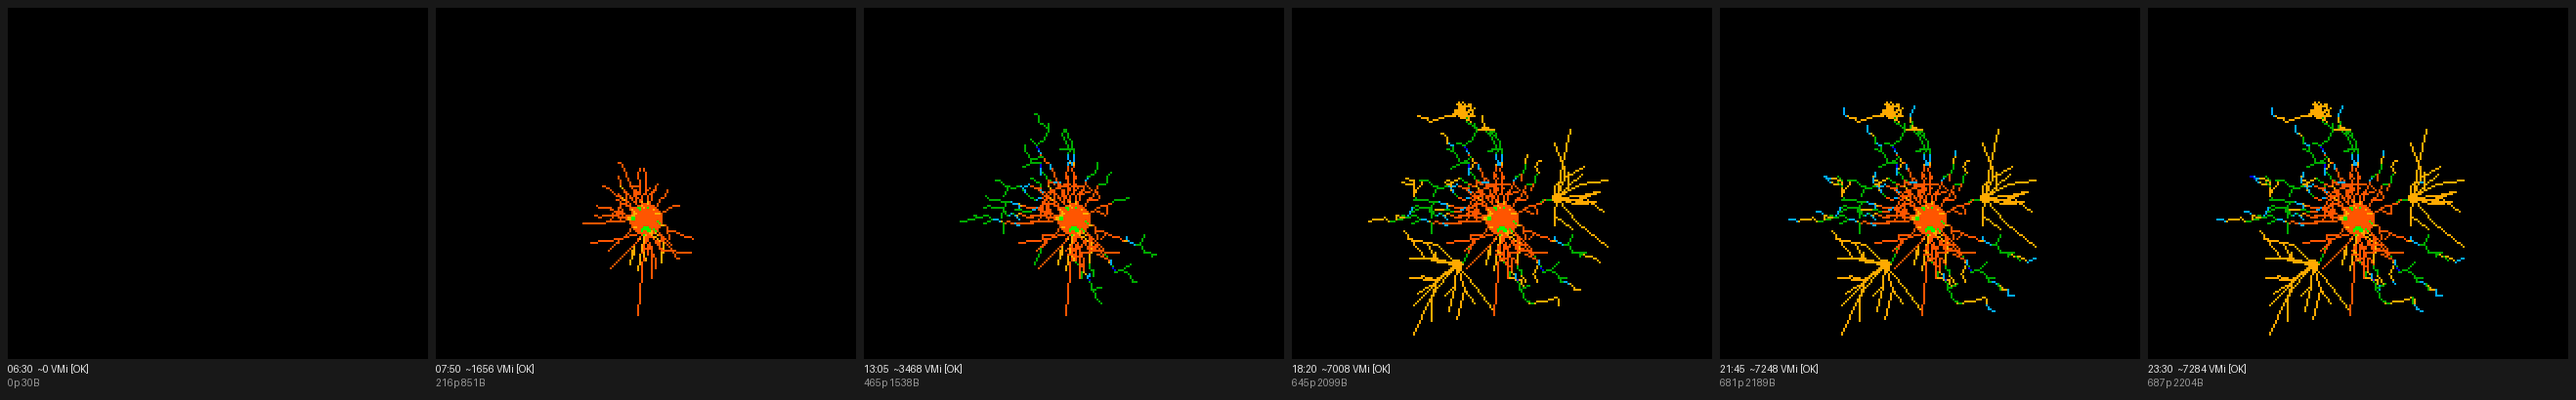
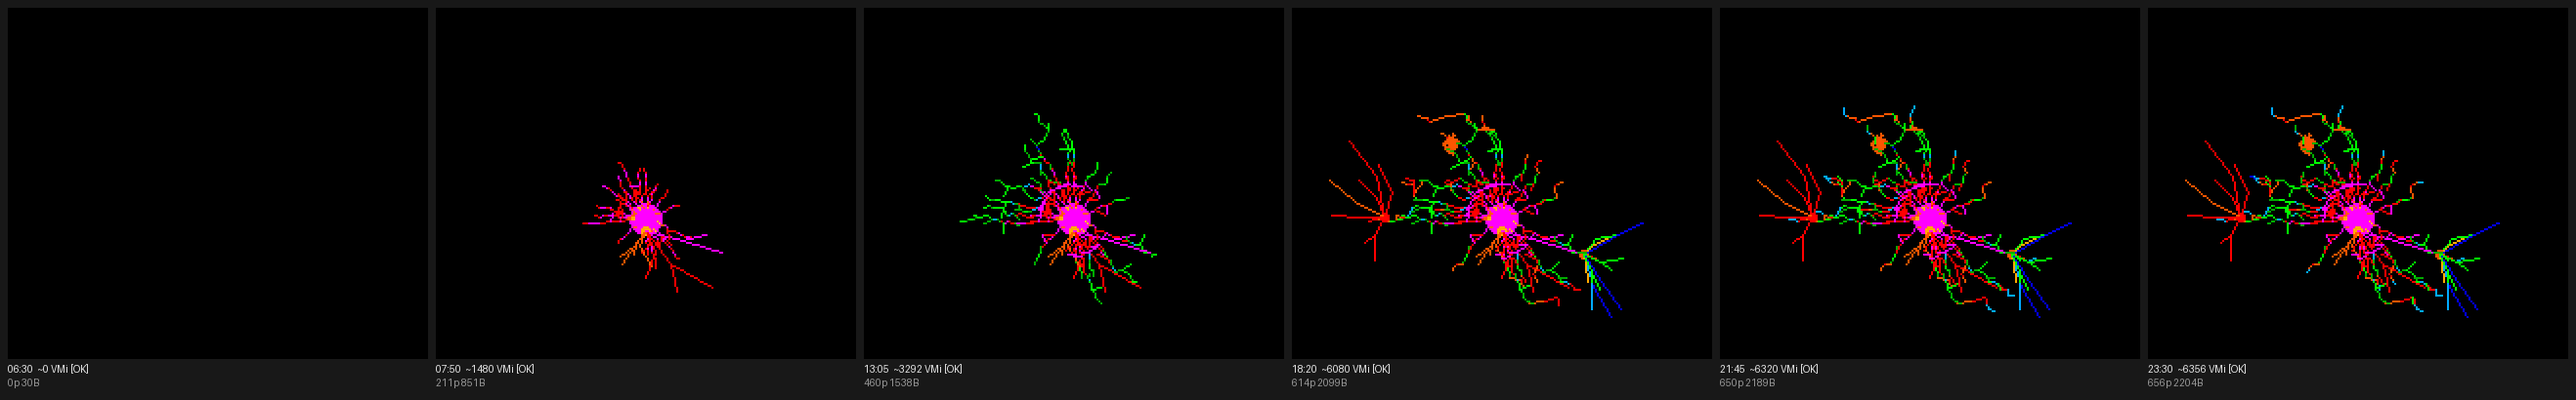
biobloom: finer HR colour ramp + cooldown momentum tail
Two iterations on the biobloom face.

1. Finer HR display. Give biobloom its own 9-step HR ramp (dk-blue, blue,
   dk-green, green, yellow, orange, red, pink, purple over bounds
   [60,80,95,105,120,138,152,165]) instead of the shared 7-step
   GenArt.ZONE_COLORS, so strataflock/flock are untouched. The old ramp
   lumped HR 105-125 into one green; that span now spreads across
   green/yellow/orange, cutting the green dominance. Pink/purple are held
   back for genuine max efforts (152+/165+). The elevated-episode threshold
   is unchanged (HR >= 105), so bloom/colony geometry and the parity tests
   are unaffected.

2. Momentum-tail colouring. The banked-movement creep that continues after
   HR drops now cools back DOWN the HR ramp from the last zone toward
   resting, in proportion to how much reservoir is left -- the recovery told
   as a colour gradient -- replacing the old behaviour of flat-reusing the
   last zone colour (which pooled green). The sandbox algo keeps the other
   explored modes (inherit/ember/violet/neutral) selectable for future
   iteration; the shipped default is cooldown.

Packed two new per-bloom fields (reservoir-at-HR-drop, last zone) into
save/load. On-device parity tests still pass (state identical, prims 657);
release sim RAM 51/59K, render 0-1ms.

diff --git a/sketches/algos/biobloom.py b/sketches/algos/biobloom.py
@@ -33,8 +33,35 @@ record the effort as zone-coloured bands as they grow outward.
 Activity-driven: the day's shape is the day's exertion. 14-colour palette, one
 repaint per minute, no within-minute animation. Daily reset (fresh dish).
 """
-from device import (idiv, imod, isin, hash16, zoneIndex, ZONE_COLORS,
-                    COLOR_BLACK, COLOR_DK_GRAY, COLOR_LT_GRAY)
+from device import (idiv, imod, isin, hash16,
+                    COLOR_BLACK, COLOR_DK_GRAY, COLOR_LT_GRAY,
+                    COLOR_DK_BLUE, COLOR_BLUE, COLOR_DK_GREEN, COLOR_GREEN,
+                    COLOR_YELLOW, COLOR_ORANGE, COLOR_RED, COLOR_PINK,
+                    COLOR_PURPLE, COLOR_DK_RED)
+
+# ---- finer HR ramp (biobloom-local) ----------------------------------------
+# The shared GenArt.ZONE_COLORS is a 7-step ramp used by strata/flock; biobloom
+# carries its own 9-step ramp so elevated HR reads with more granularity without
+# touching the other faces. Cool -> hot: blue family for rest, green for easy,
+# then a warm run yellow -> orange -> red -> pink -> purple for the hard end, so
+# the 105-135 band (which used to all be one green) now spreads across several
+# colours. hr_zi(None) == -1 (never elevated; drawn dark grey).
+HR_BOUNDS = [60, 80, 95, 105, 120, 138, 152, 165]
+HR_RAMP = [COLOR_DK_BLUE, COLOR_BLUE, COLOR_DK_GREEN, COLOR_GREEN,
+           COLOR_YELLOW, COLOR_ORANGE, COLOR_RED, COLOR_PINK, COLOR_PURPLE]
+
+
+def hr_zi(hr):
+    if hr is None:
+        return -1
+    for i in range(len(HR_BOUNDS)):
+        if hr < HR_BOUNDS[i]:
+            return i
+    return len(HR_BOUNDS)            # 8 == PURPLE (HR >= 165)
+
+
+def hr_color(zi):
+    return COLOR_DK_GRAY if zi < 0 else HR_RAMP[zi]
 
 CX, CY = 107, 108     # centre at 2/5 of the screen height up from the bottom
 R0, RMAX = 7, 86
@@ -44,7 +71,19 @@ STEP = 2            # px of radius per appended vertex
 KMAX = 22           # cap on live filaments
 SEEDS = 9           # initial threads, spread evenly around the centre
 
-ACTIVE = 3          # zone idx >= ACTIVE is an elevated-HR minute (HR >= 105)
+ACTIVE = 4          # zone idx >= ACTIVE is an elevated-HR minute (HR >= 105)
+
+# How banked-movement "momentum" creep (the growth that continues after HR has
+# dropped) is coloured. The HR-driven bands are always the zone ramp; this only
+# governs the after-glow tail. Options compared in the sandbox:
+#   "inherit"  -- reuse the last HR-zone colour (original behaviour)
+#   "ember"    -- cool the tail hot -> dark-red -> dark-grey (spent fuel / ash)
+#   "violet"   -- a single dedicated PURPLE, a bold banked-effort halo
+#   "neutral"  -- a quiet light-grey, so the bright HR bands pop
+#   "cooldown" -- start at the last HR colour, then cool back DOWN the HR ramp
+#                 (orange -> yellow -> green -> blue) to resting as the banked
+#                 reservoir is spent: the recovery told as a colour gradient
+MOM_MODE = "cooldown"
 BASE = 2            # px a bloom starts out from its anchor
 GROW = 2            # px the frontier advances per elevated minute (one band)
 REACH_CAP = 46      # px a bloom can reach outward along its arm
@@ -71,7 +110,8 @@ INK_MAX = 700       # per-frame draw-budget guard (watchdog backstop, see .mc)
 
 
 class BioBloom:
-    def __init__(self):
+    def __init__(self, mom_mode=MOM_MODE):
+        self.mom_mode = mom_mode
         self.prev = None
         self.win = []
         self.fil = []
@@ -133,7 +173,7 @@ class BioBloom:
         self.prev = steps
 
         hr = snap.heartRate
-        zi = zoneIndex(hr)
+        zi = hr_zi(hr)
         cur = hr if hr is not None else 0
         self.win.append(cur)
         if len(self.win) > 10:
@@ -142,7 +182,7 @@ class BioBloom:
         rising = len(self.win) >= 6 and cur - self.win[0] >= 8
 
         move = idiv(spm, KACT)
-        color = COLOR_DK_GRAY if spm <= 1 else ZONE_COLORS[zi]
+        color = COLOR_DK_GRAY if spm <= 1 else hr_color(zi)
 
         if move > 0:
             nf = len(self.fil)
@@ -170,10 +210,15 @@ class BioBloom:
                 w = 16
             if w > b["w"]:
                 b["w"] = w
-            self._band(b, ZONE_COLORS[zi], GROW)      # initial growth, zone colour
+            self._band(b, hr_color(zi), GROW)         # initial growth, zone colour
+            if zi > b["hot"]:
+                b["hot"] = zi                         # peak zone, for ember tail
+            b["mc"] = 0                               # reset ember tail on re-feed
+            b["lastzi"] = zi                          # tail starts from this zone
             b["mom"] += idiv(spm, MOM_DIV)            # bank movement effort
             if b["mom"] > REACH_CAP:
                 b["mom"] = REACH_CAP
+            b["mom0"] = b["mom"]                      # reservoir at HR-drop, for cooldown
             fed = self.epi_idx
         else:
             self.epi_on = False
@@ -213,7 +258,7 @@ class BioBloom:
         if self.bar >= BAR_ON:
             c = COLOR_DK_GRAY if self.bar >= BAR_HI else COLOR_LT_GRAY
         else:
-            c = ZONE_COLORS[zi]
+            c = hr_color(zi)
         col["bands"].append((col["reach"], target, c))
         col["reach"] = target
 
@@ -226,7 +271,8 @@ class BioBloom:
         bx, by, _ = f["pts"][-1]
         salt = imod(hash16(bx, by, zi), 4096)
         self.blooms.append({"bx": bx, "by": by, "ang": f["a"], "reach": BASE,
-                            "w": 3, "bands": [], "salt": salt, "mom": 0})
+                            "w": 3, "bands": [], "salt": salt, "mom": 0,
+                            "hot": zi, "mc": 0, "lastzi": zi, "mom0": 0})
         return len(self.blooms) - 1
 
     def _band(self, b, color, grow):
@@ -239,10 +285,40 @@ class BioBloom:
             b["bands"].append((r0, r1, color))
             b["reach"] = r1
 
+    def _mom_color(self, b):
+        # colour of a momentum (post-HR) creep band, per self.mom_mode
+        if self.mom_mode == "violet":
+            return COLOR_PURPLE
+        if self.mom_mode == "neutral":
+            return COLOR_LT_GRAY
+        if self.mom_mode == "ember":
+            # cool the tail as the reservoir is spent: a couple of bands in the
+            # peak HR colour, then dark red, then dark grey ash
+            if b["mc"] < 2:
+                return hr_color(b["hot"])
+            if b["mc"] < 4:
+                return COLOR_DK_RED
+            return COLOR_DK_GRAY
+        if self.mom_mode == "cooldown":
+            # start at the last HR colour and cool back DOWN the ramp toward
+            # resting (idx 0) in proportion to how much reservoir is left, so
+            # the recovery reads as a colour gradient regardless of tail length
+            m0 = b["mom0"]
+            if m0 <= 0:
+                return hr_color(b["lastzi"])
+            ci = idiv(b["lastzi"] * b["mom"], m0)
+            if ci < 0:
+                ci = 0
+            if ci > b["lastzi"]:
+                ci = b["lastzi"]
+            return hr_color(ci)
+        return b["bands"][-1][2]                       # "inherit"
+
     def _momentum(self, fed):
         # blooms not growing from HR this minute spend their banked movement
-        # effort to creep on in the last zone's colour, until the reservoir runs
-        # out -- exercise (lots of movement) keeps growing, anxiety does not
+        # effort to creep on, until the reservoir runs out -- exercise (lots of
+        # movement) keeps growing, anxiety does not. The creep colour is the
+        # after-glow tail governed by self.mom_mode.
         i = 0
         while i < len(self.blooms):
             b = self.blooms[i]
@@ -250,8 +326,9 @@ class BioBloom:
                 g = MOM_STEP
                 if g > b["mom"]:
                     g = b["mom"]
-                self._band(b, b["bands"][-1][2], g)
+                self._band(b, self._mom_color(b), g)
                 b["mom"] -= g
+                b["mc"] += 1
             i += 1
 
     def render(self, dc, snap):
@@ -365,4 +442,4 @@ class BioBloom:
 
 
 def build():
-    return {"background": COLOR_BLACK, "components": [BioBloom()]}
+    return {"background": COLOR_BLACK, "components": [BioBloom(MOM_MODE)]}
